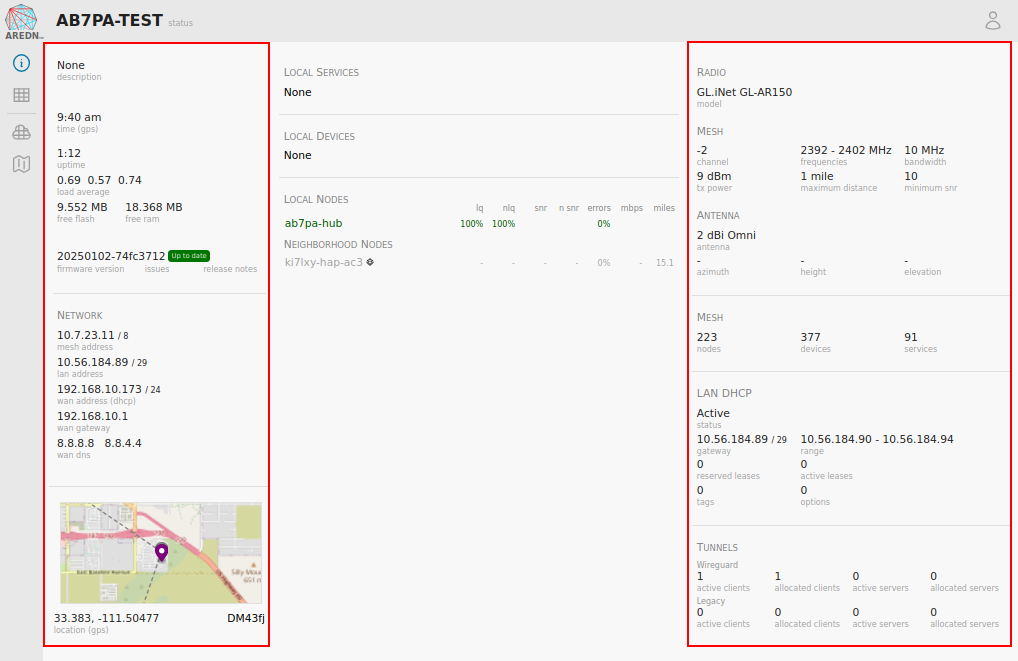
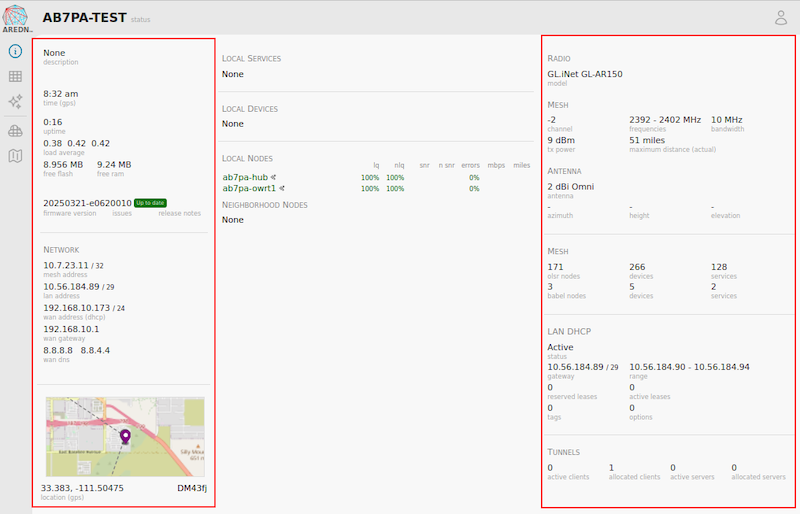
add babelmesh description (#478)

diff --git a/arednGettingStarted/node_status.rst b/arednGettingStarted/node_status.rst
@@ -39,6 +39,8 @@ Using the icons on the left side bar you can navigate to various displays.
 
 |icon4| navigates to the local mesh status page showing the nodes visible on the local mesh network, as well as any services provided by those nodes.
 
+|icon12| navigates to a view of the local mesh status page which shows only those nodes routed using the Babel protocol.
+
 |icon5| navigates to the *Cloud Mesh* view through the Supernode network (if available).
 
 |icon6| navigates to the world map on the AREDN® website. This is only displayed if your node has valid latitude and longitude values, since this feature is designed to display your node in the center of the map. If your node has no latitude and longitude values, then this icon will not appear on the nav bar.
@@ -201,3 +203,6 @@ Tunnels section
 
 .. |icon11| image:: ../_icons/babel.png
   :alt: Babel route icon
+
+.. |icon12| image:: ../_icons/babelmesh.png
+  :alt: Babel mesh icon
